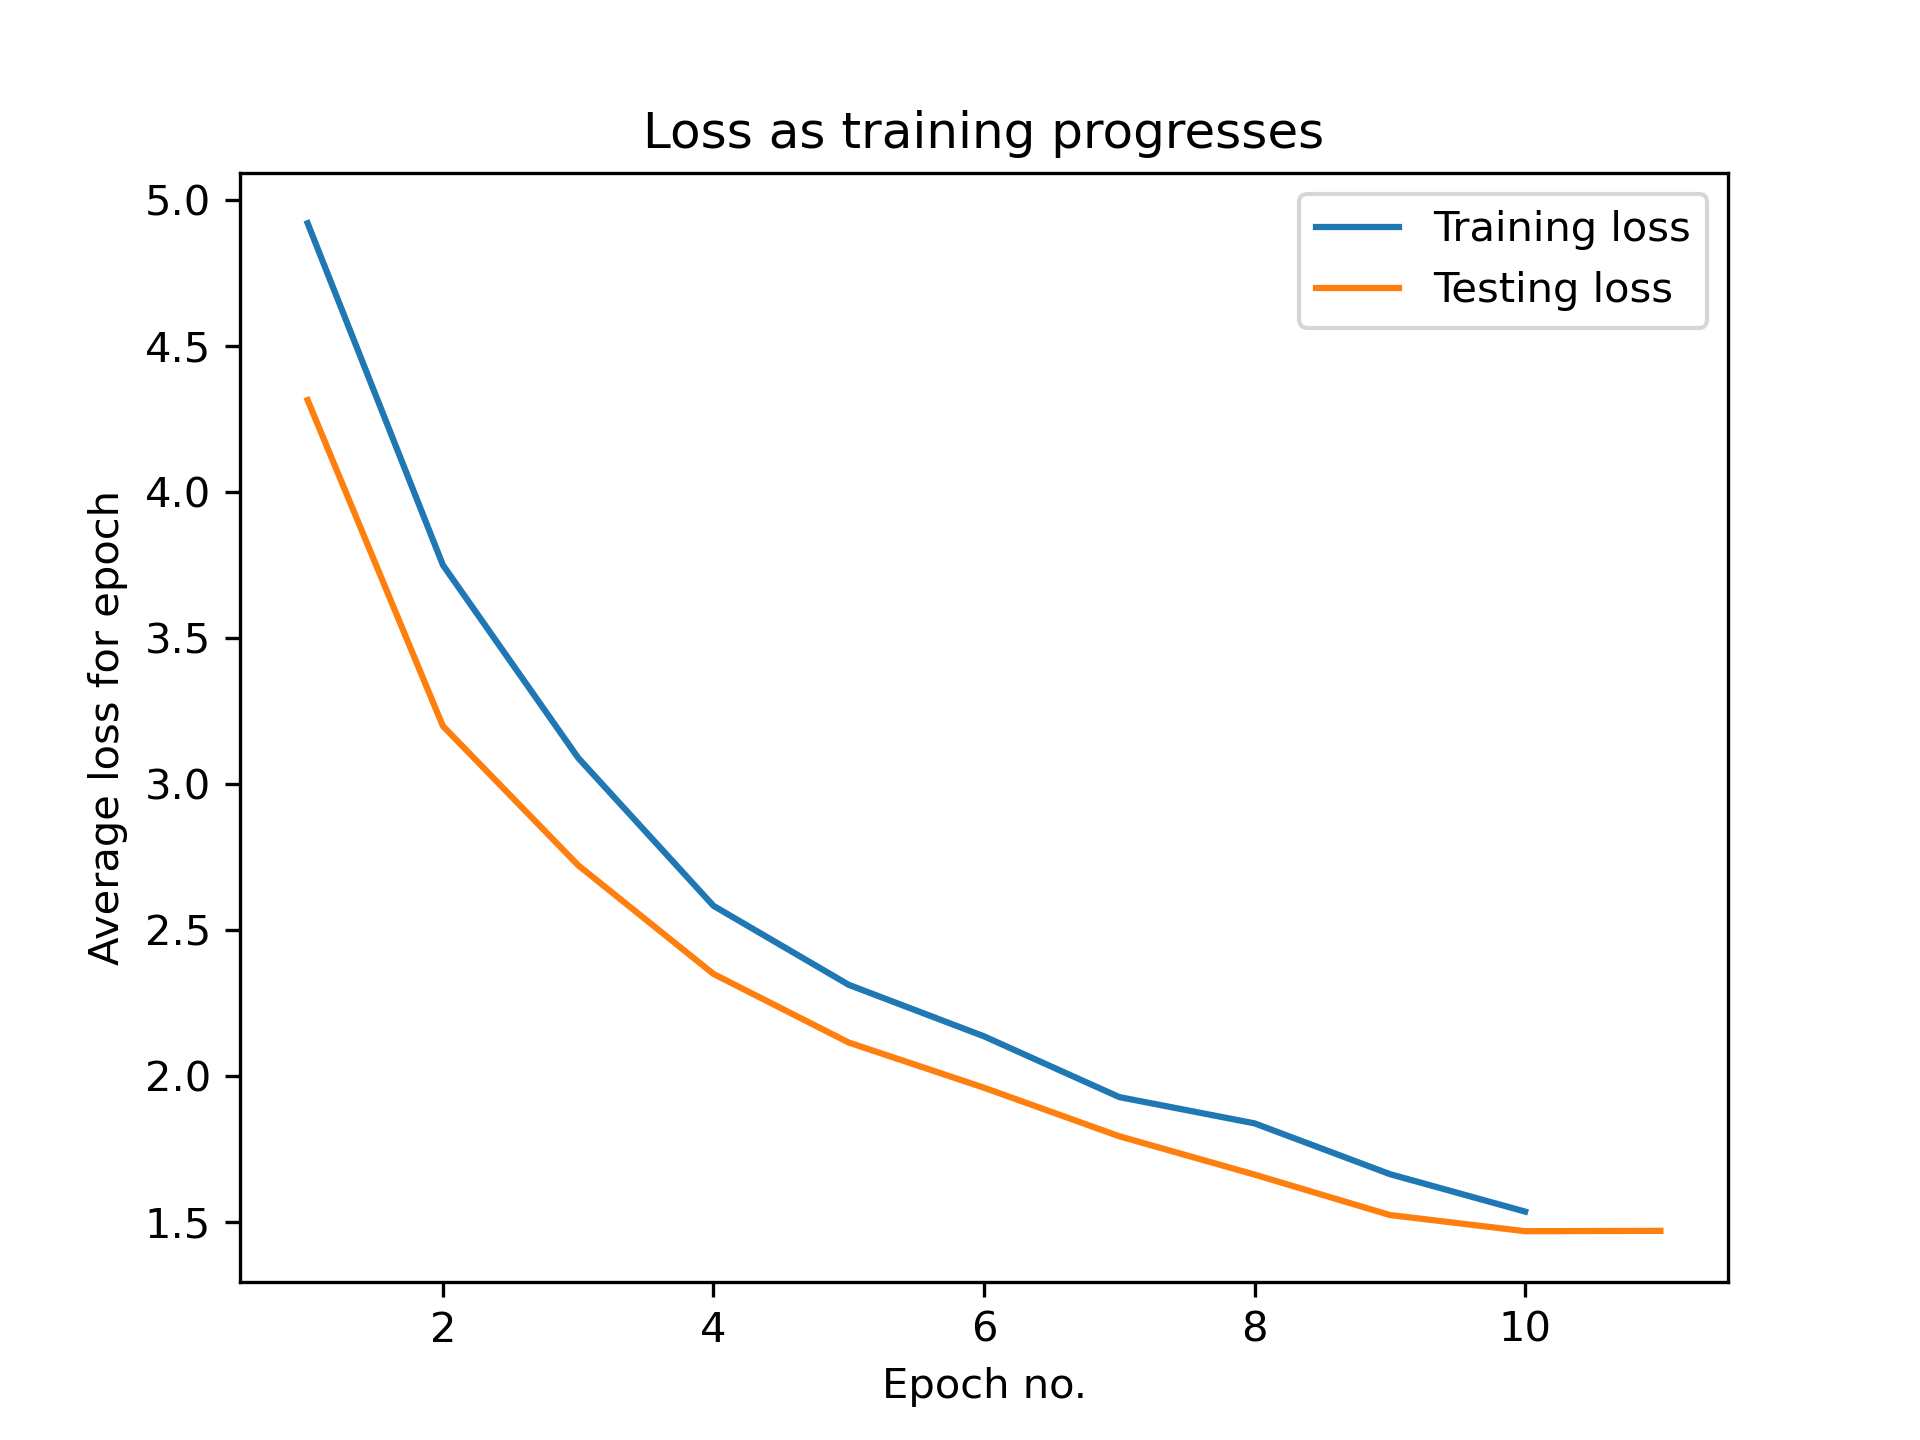
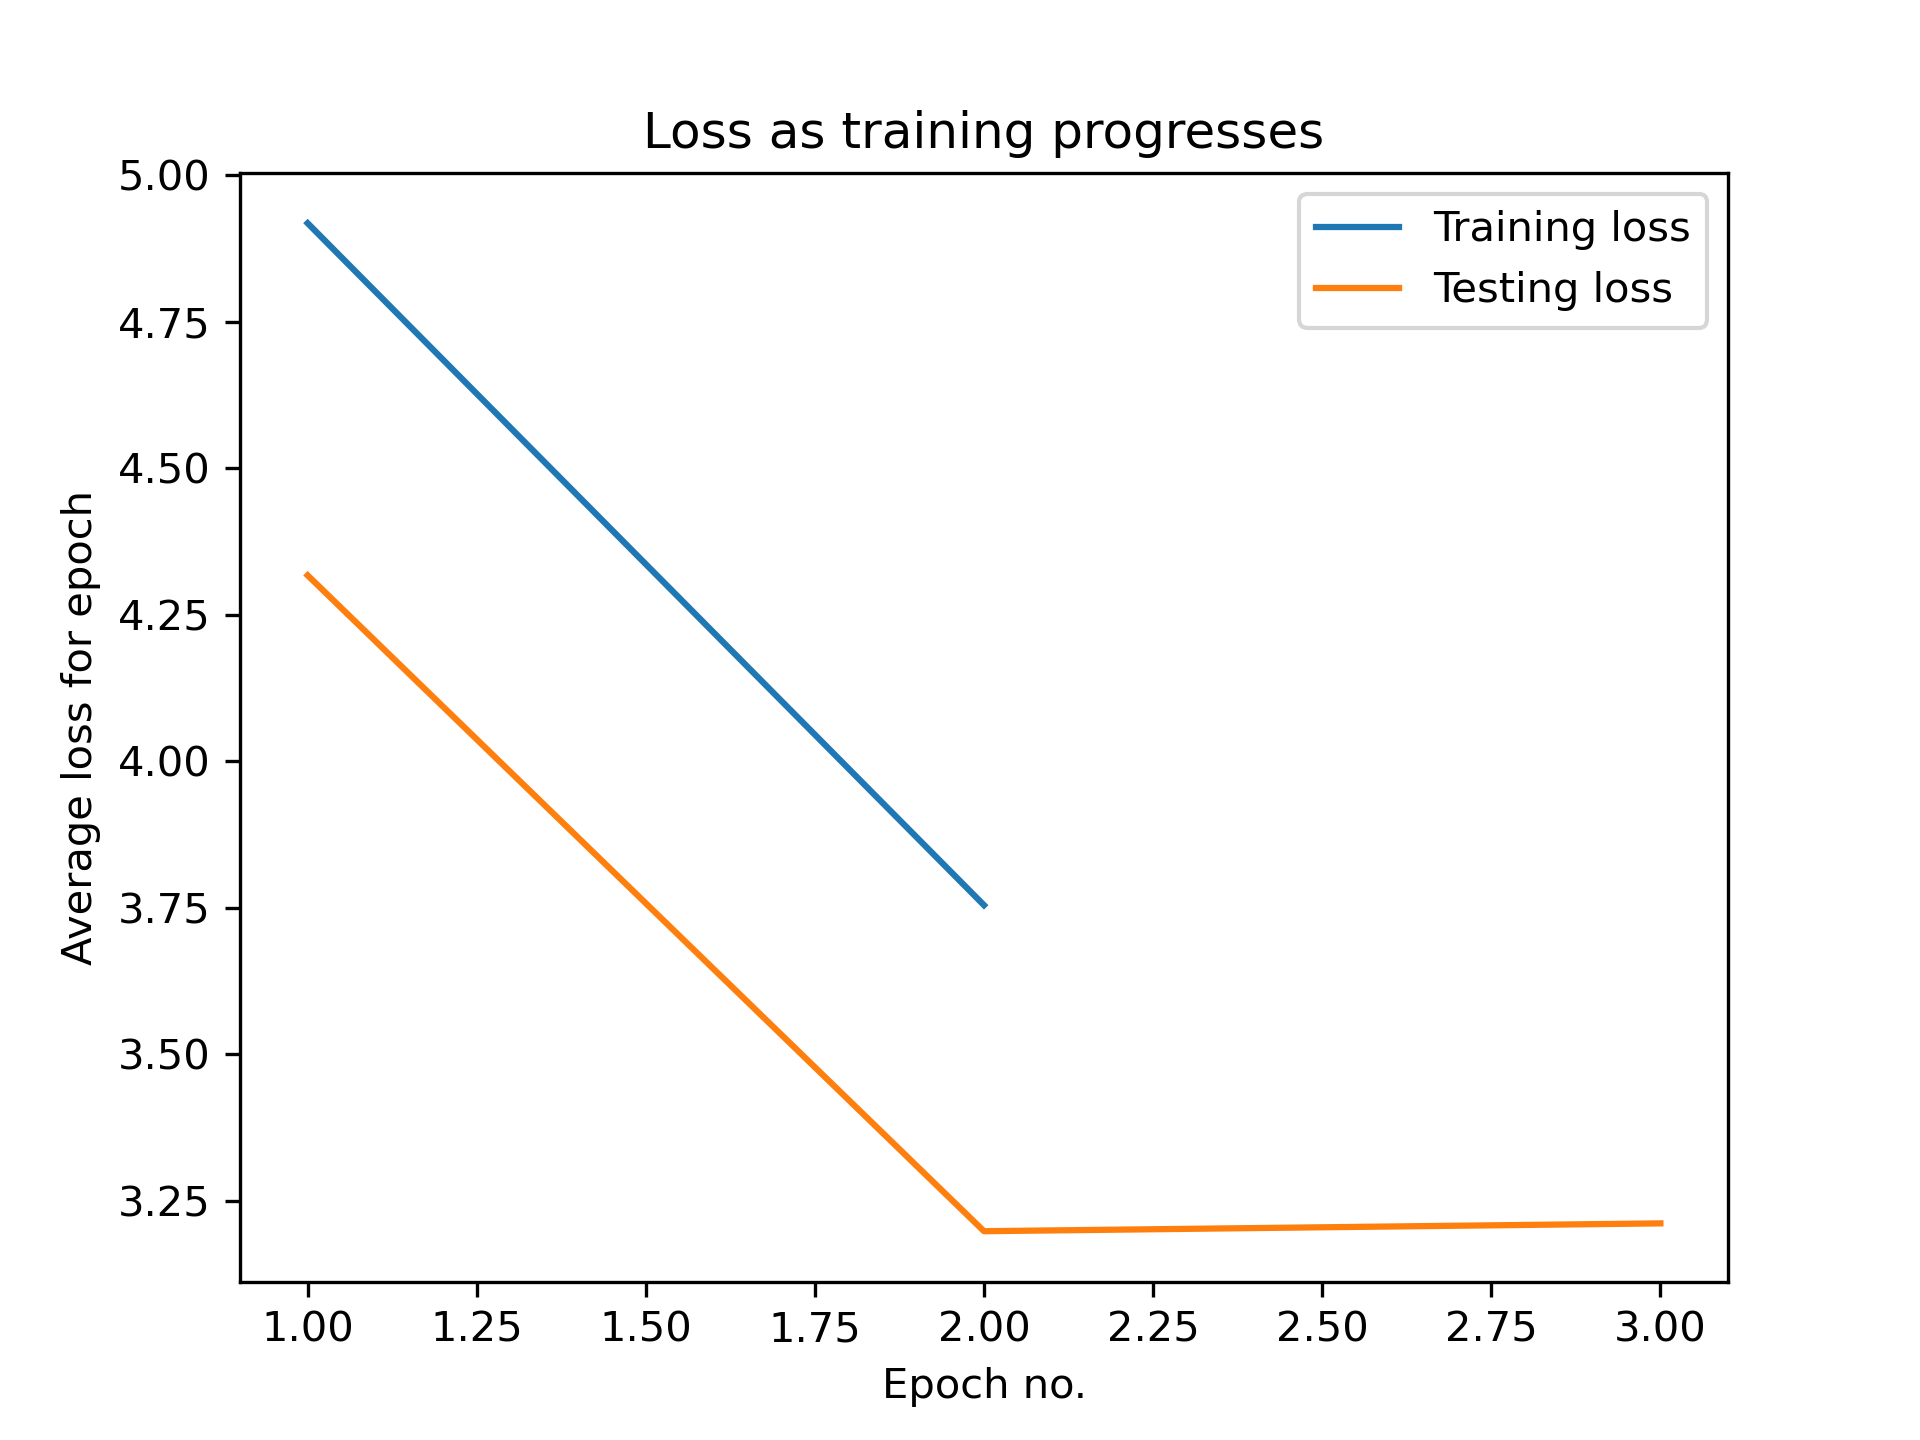
working version with danbooruFacesCrops dataset. many problems with the dataset itself. 70k classes in IDs but actually only 49 k unique characters are included in the main labels file, maybe even less in the actual training, val and test set subsets. need to adjust accordingly.

diff --git a/classification/data/datasets.py b/classification/data/datasets.py
@@ -2,10 +2,13 @@ import os
 import numpy as np
 import pandas as pd
 import matplotlib.pyplot as plt
+from PIL import Image
 
 import torch
 import torch.utils.data as data
 from torchvision import transforms, datasets
+
+from utils.dataset_stats import calc_stats
 
 class moeImoutoDataset():
 	# most images are between 100 to 200 pixels square
@@ -31,90 +34,109 @@ class moeImoutoDataset():
 
 class danbooruFacesCrops(data.Dataset):
 	# this dataset is just the crops of the faces to 128x128
-	def __init__(self, input_size=128,
-	base_folder="/home2/edwin_ed520/personal/Danbooru2018AnimeCharacterRecognitionDataset/"):
+	def __init__(self, split, input_size=128,
+	base_folder="/home2/edwin_ed520/personal/Danbooru2018AnimeCharacterRecognitionDataset/", 
+	transform=None):
 		super().__init__()
 		self.input_size = input_size
+		self.split = split
 		self.img_folder = os.path.join(base_folder, "danbooru2018_animefacecropdataset")
-		
+		self.transform = transform
+		if self.transform is not None:
+			self.transform = transforms.Compose([
+			transforms.Resize((self.input_size, self.input_size)),
+			transforms.RandomHorizontalFlip(),
+			transforms.ColorJitter(brightness=0.1, contrast=0.1, saturation=0.1, hue=0.1),
+			transforms.ToTensor(),
+			transforms.Normalize(mean=[0.5, 0.5, 0.5],
+								std=[0.5, 0.5, 0.5])
+			])
+
 		# contains names of class (character names) assigned to certain ID. ex: 
 		# miyu_(vampire_princess_miyu)	0
 		self.class_names_dir = os.path.join(base_folder, "tagIds.tsv")
 		self.class_names_pd = pd.read_csv(self.class_names_dir, sep='\t',
-		header=None, names=['character', 'id'])
+		header=None, names=['character', 'class_id'])
 		self.class_names = self.class_names_pd.to_numpy()
 		
 		# first col is the img path, second is class id, third col is detection results
+		# added a fourth col for img id (img path without jpg and the subfolder)
 		# Each detection result has five fields separated by commas, 
 		# i.e. left, top, right, bottom, confidence in order. ex:
 		#  0446\332446.jpg	1	0.448534, 0.441995, 0.584106, 0.654420 0.337403
-		self.data_dic_dir = os.path.join(base_folder, "faces.tsv")
+		self.data_dic_dir = os.path.join(base_folder, "faces_mod.tsv")
 		self.data_dic_pd = pd.read_csv(self.data_dic_dir, sep='\t',
-		header=None, names=['dir', 'id', 'coords'])
+		header=None, names=['dir', 'class_id', 'coords', 'file_id'],
+		dtype={'dir': 'object', 'class_id': 'int64', 'coords': 'object', 'file_id': 'object'})
 		self.data_dic = self.data_dic_pd.to_numpy()
-	
-	def __len__(self):
-		return len(self.data_dic)
-	
-	'''
-	def __getitem__(self, index):
-		# Select sample
-		ID = self.list_IDs[index]
 
-    	# Load data and get label
-		X = torch.load('data/' + ID + '.pt')
-		y = self.labels[ID]
+		if self.split=='train':
+			# train split data
+			self.set_list_dir = os.path.join(base_folder, "trainSplit.tsv")
+			self.set_list = pd.read_csv(self.set_list_dir, sep='\t', 
+			header=None, names=['file_id'], dtype={'file_id': 'object'})
+			print('Initialized {} split'.format(split))
+		elif self.split=='val':
+			# validation split data
+			self.set_list_dir = os.path.join(base_folder, "valSplit.tsv")
+			self.set_list = pd.read_csv(self.set_list_dir, sep='\t', 
+			header=None, names=['file_id'], dtype={'file_id': 'object'})
+			print('Initialized {} split'.format(split))
+		elif self.split=='test':
+			# test split data
+			self.set_list_dir = os.path.join(base_folder, "testSplit.tsv")
+			self.set_list = pd.read_csv(self.set_list_dir, sep='\t', 
+			header=None, names=['file_id'], dtype={'file_id': 'object'})
+			print('Initialized {} split'.format(split))
+
+		# for compatibility with standard pytorch sets
+		# classes and class_to_idx atribute
+		self.classes = self.class_names[:, 0]
+		self.class_to_idx = dict(zip(self.class_names[:, 0], self.class_names[:, 1]))
+		# samples and targets attributes
+		# samples is a list of tuple of two values [(img_dir, label)]
+		# targets is a list of [label]
+		self.subset_df = self.data_dic_pd.loc[self.data_dic_pd['file_id'].isin(self.set_list['file_id'].to_numpy())]
+		self.targets = self.subset_df['class_id'].values.tolist()
+		self.subset_image_dirs = self.subset_df['dir'].values.tolist()
+		self.samples = list(zip(self.subset_image_dirs, self.targets))
+
+	def __len__(self):
+		return len(self.set_list)
+	
+	def __getitem__(self, idx):
 		
-		return X, y
-	'''
+		if torch.is_tensor(idx):
+			idx = idx.tolist()
+
+		# get one file_id from the train/val/test split
+		key_id = self.set_list['file_id'].iloc[idx]
+		# get the row of df based on the given file_id
+		row = self.data_dic_pd.loc[self.data_dic_pd['file_id'] == key_id]
+		# get the dir and class_id columns
+		img_dir, label = row[['dir', 'class_id']].iloc[0]
+		# split the dir into the folder and the file name
+		folder, file_name = img_dir[:4], img_dir[5:]
+		# concatenate full path and read img
+		img_dir = os.path.join(self.img_folder, folder, file_name)
+		image = Image.open(img_dir)
+		
+		if self.transform:
+			image = self.transform(image)
+
+		return image, label
 
 	def no_classes(self):
 		return len(self.class_names)
 
 	def stats(self):
+		# for original dataset with 900 k images
 		calc_stats(self.data_dic_pd.copy(), self.no_classes(), self.class_names)
+		# for subset with 85% confidence (500k images)
+		print(self.class_names_pd['class_id'].nunique())
+		print(self.data_dic_pd['class_id'].nunique())
+		classes_reduced = self.subset_df['class_id'].nunique()
+		print(self.subset_df.head())
+		print(classes_reduced)
+		#calc_stats(self.subset_df.copy(), classes_reduced, self.class_names)
 
-
-def calc_stats(samples_per_class, no_classes, class_names):
-	samples_per_class = samples_per_class.groupby('id', as_index=True).count()['dir'].squeeze()
-		
-	set_mean = samples_per_class.mean()
-	set_median = samples_per_class.median()
-	set_std = samples_per_class.std()
-	print('Dataset no of classes: {}\n'
-	'Mean number of samples per class: {}\n'
-	'Median number of samples per class: {}\n'
-	'Standard deviation of samples per class: {}'.format(
-	no_classes, set_mean, set_median, set_std))
-
-	samples_per_class_ordered = samples_per_class.sort_values(0, ascending=False)
-	print(samples_per_class_ordered.head())
-
-	print('Characters with most number of samples: ')
-	print('\t'.join('No. {}: {} (Class ID: {}) with {} samples'.format(
-    j+1, class_names[samples_per_class_ordered.index[j], 0], 
-	class_names[samples_per_class_ordered.index[j], 1], 
-	samples_per_class_ordered.iloc[j]) for j in range(10)))
-
-	print('\nCharacters with least number of samples: ')
-	print('\t'.join('No. {}: {} (Class ID: {}) with {} samples'.format(
-    j+1, class_names[samples_per_class_ordered.index[-1-j], 0], 
-	class_names[samples_per_class_ordered.index[-1-j], 1], 
-	samples_per_class_ordered.iloc[-1-j]) for j in range(10)))
-
-	fig, axs = plt.subplots(1)
-	fig.suptitle('Histogram of Classes for DanbooruFace Dataset')
-
-	# only plot first 100
-	bins = 100
-	axs.bar(np.arange(bins), samples_per_class_ordered.iloc[0:bins].to_numpy())
-		
-	axs.set_ylabel('No. of samples per class')
-	axs.set_title('Ordered based on no. of samples')
-		
-	results_dir = 'results'
-	if not os.path.exists(results_dir):
-		os.makedirs(results_dir)
-	fig.savefig(os.path.join(results_dir, 
-	'histogram_danbooruFacesCrops.png'), dpi=300)
-		

diff --git a/classification/utils/utils.py b/classification/utils/utils.py
@@ -7,13 +7,17 @@ import torch
 import torch.utils.data as data
 import torchvision
 
-from data.datasets import moeImoutoDataset
+from data.datasets import moeImoutoDataset, danbooruFacesCrops
 
-def data_loading(batch_size, visualization=True):
+def data_loading(dataset_name, split, batch_size, visualization=True):
 
-    dataset = moeImoutoDataset().getImageFolder()
-    classes = dataset.classes
-    
+    if dataset_name == 'moeImouto':
+        dataset = moeImoutoDataset().getImageFolder()
+        classes = dataset.classes
+    if dataset_name == 'danbooruFacesCrops':
+        dataset = danbooruFacesCrops(split=split, transform=True)
+        classes = dataset.classes
+        dataset.stats()
     # split into training, validation, and testing
     # https://stackoverflow.com/questions/50544730/how-do-i-split-a-custom-dataset-into-training-and-test-datasets/50544887#50544887
     dataset_loader = data.DataLoader(dataset,
@@ -30,6 +34,7 @@ def classes_print(dataset, no_examples=10):
     print(dataset)
     print(dataset.classes[:no_examples])
     print(dict([key, dataset.class_to_idx[key]] for key in dataset.classes[:no_examples]))
+    #print(dataset[0])
     print(dataset.samples[0])
     print(dataset.targets[0])
 
@@ -37,6 +42,7 @@ def img_grid(classes, dataset_loader, batch_size=16):
     # get some random training images
     dataiter = iter(dataset_loader)
     images, labels = dataiter.next()
+    print(images.shape, labels.shape)
     
     # print labels
     print('Numbered left to right, top to bottom:')
@@ -46,19 +52,23 @@ def img_grid(classes, dataset_loader, batch_size=16):
     # show images
     imshow(torchvision.utils.make_grid(images[:batch_size]), 'sample_grid')
     
-def imshow(img, name):
+def imshow(img, name, bottom_text=None):
     # functions to show an image
     img = img / 2 + 0.5     # unnormalize
     npimg = img.numpy()
     plt.figure()
     plt.imshow(np.transpose(npimg, (1, 2, 0)))
     #plt.show()
+    
+    if bottom_text is not None:
+        plt.text(0.01, 0.01, bottom_text, fontsize=4, bbox=dict(facecolor='gray', alpha=0.2))
+
     results_dir = 'results'
     if not os.path.exists(results_dir):
         os.makedirs(results_dir)
     plt.savefig(os.path.join(results_dir, '{}.png'.format(name)), dpi=300)
 
-
+    
 def show_results(device, loader, model, classes, batch_size=8):
     images, labels = iter(loader).next()[:batch_size]
     images = images.to(device)
@@ -68,8 +78,9 @@ def show_results(device, loader, model, classes, batch_size=8):
     
     print('\n'.join('Correct: {}, Predicted: {}'.format(
     classes[labels[j]], classes[predicted[j]]) for j in range(batch_size)))
-
-    imshow(torchvision.utils.make_grid(images.cpu()[:batch_size]), 'class_results')
+    bottom_text = '\n'.join('Correct: {}, Predicted: {}'.format(
+    classes[labels[j]], classes[predicted[j]]) for j in range(batch_size))
+    imshow(torchvision.utils.make_grid(images.cpu()[:batch_size]), 'class_results', bottom_text)
     
 
 def plot_losses(training_proc_avg, test_proc_avg):

diff --git a/classification/utils/dataset_stats.py b/classification/utils/dataset_stats.py
@@ -1,0 +1,50 @@
+import os
+import numpy as np
+import pandas as pd
+import matplotlib.pyplot as plt
+
+def calc_stats(samples_per_class, no_classes, class_names):
+	samples_per_class = samples_per_class.groupby('class_id', as_index=True).count()['dir'].squeeze()
+		
+	set_mean = samples_per_class.mean()
+	set_median = samples_per_class.median()
+	set_std = samples_per_class.std()
+	print('Dataset no of classes: {}\n'
+	'Mean number of samples per class: {}\n'
+	'Median number of samples per class: {}\n'
+	'Standard deviation of samples per class: {}'.format(
+	no_classes, set_mean, set_median, set_std))
+
+	samples_per_class_ordered = samples_per_class.sort_values(0, ascending=False)
+	print(samples_per_class_ordered.head())
+	print('Shape of samples per class df:')
+	print(samples_per_class_ordered.shape)
+
+	print('Characters with most number of samples: ')
+	print('\t'.join('No. {}: {} (Class ID: {}) with {} samples'.format(
+    j+1, class_names[samples_per_class_ordered.index[j], 0], 
+	class_names[samples_per_class_ordered.index[j], 1], 
+	samples_per_class_ordered.iloc[j]) for j in range(10)))
+
+	print('\nCharacters with least number of samples: ')
+	print('\t'.join('No. {}: {} (Class ID: {}) with {} samples'.format(
+    j+1, class_names[samples_per_class_ordered.index[-1-j], 0], 
+	class_names[samples_per_class_ordered.index[-1-j], 1], 
+	samples_per_class_ordered.iloc[-1-j]) for j in range(10)))
+
+	fig, axs = plt.subplots(1)
+	fig.suptitle('Histogram of Classes for DanbooruFace Dataset')
+
+	# only plot first 100
+	bins = 100
+	axs.bar(np.arange(bins), samples_per_class_ordered.iloc[0:bins].to_numpy())
+		
+	axs.set_ylabel('No. of samples per class')
+	axs.set_title('Ordered based on no. of samples')
+		
+	results_dir = 'results'
+	if not os.path.exists(results_dir):
+		os.makedirs(results_dir)
+	fig.savefig(os.path.join(results_dir, 
+	'histogram_danbooruFacesCrops.png'), dpi=300)
+		

diff --git a/classification/train/train.py b/classification/train/train.py
@@ -10,7 +10,7 @@ from torchsummary import summary
 from utils.utils import update_lr, plot_losses, data_loading, show_results
 from models.models import simpleNet
 
-def train():
+def train(dataset_name):
     # trains model from scratch
     
     # Device configuration
@@ -19,7 +19,7 @@ def train():
     torch.manual_seed(0)
 
     # train constants
-    no_epochs = 10
+    no_epochs = 2
     save_iter = 10
     epoch_decay = 100 
     batch_size = 256
@@ -27,7 +27,7 @@ def train():
 
     # dataloader
     # training
-    train_loader, classes = data_loading(batch_size, visualization=True)
+    train_loader, classes = data_loading(dataset_name=dataset_name, split='val', batch_size=batch_size, visualization=True)
     no_classes = len(classes)
     # validation
     # testing

diff --git a/classification/tests.py b/classification/tests.py
@@ -1,7 +1,8 @@
+import matplotlib.pyplot as plt
 from data.datasets import danbooruFacesCrops
 
 def test_data_load_danbooruFacesCrops():
-    dataset = danbooruFacesCrops()
+    dataset = danbooruFacesCrops(split='val')
     print(dataset)
     print(dataset.data_dic_pd.head())
     print(dataset.class_names_pd.head())
@@ -18,6 +19,14 @@ def test_data_load_danbooruFacesCrops():
     print(dataset.no_classes())
     dataset.stats()
     
+    # test data get item
+    #print(dataset[0])
+    image, label = dataset[0]
+    fig = plt.figure()
+    plt.imshow(image)
+    plt.show()
+    print(label)
+
     print('Finished successfully')
 
 def main():

diff --git a/classification/main.py b/classification/main.py
@@ -1,7 +1,12 @@
+import sys
 from train.train import train
 
 def main():
-    train()
+    dataset_name = sys.argv[1]
+    print(dataset_name)
+    #train(dataset_name='moeImouto')
+    #train(dataset_name='danbooruFacesCrops')
+    train(dataset_name = dataset_name)
 
 if __name__ == '__main__':
     main()
